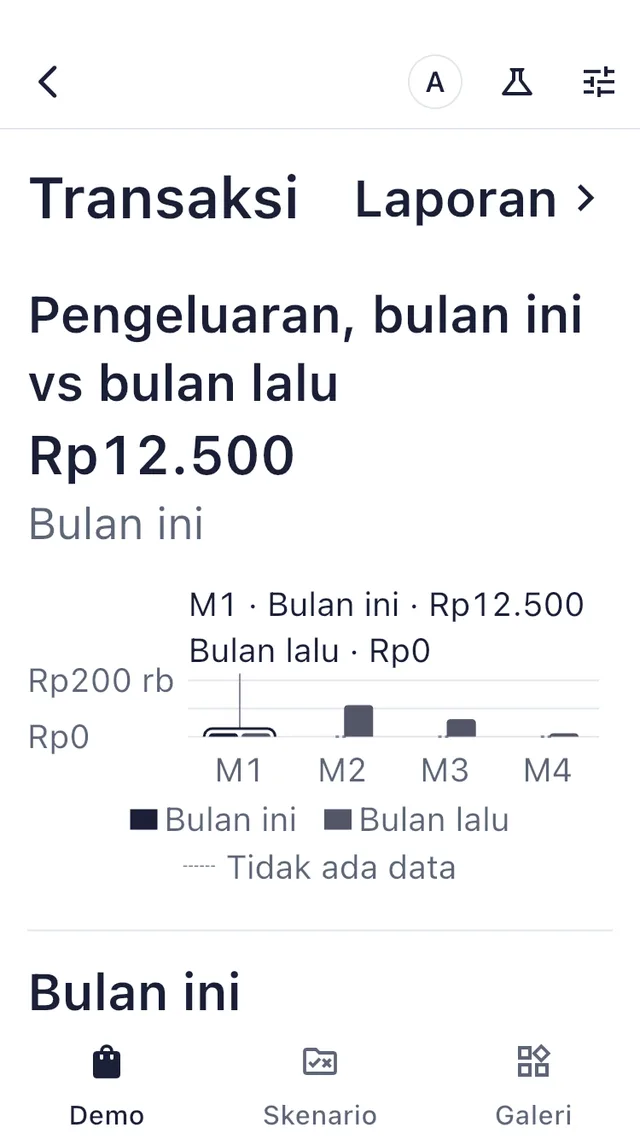
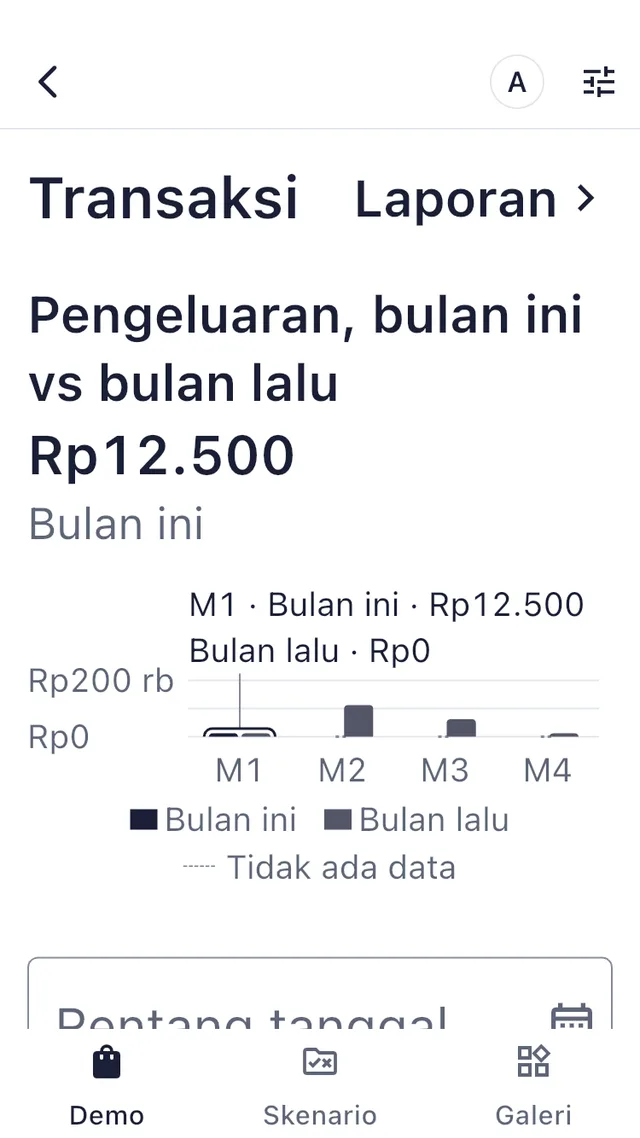
docs(screens): P7a captures, pinned KYC steps on iPhone 16 Pro and SE

diff --git a/docs/decisions.md b/docs/decisions.md
@@ -575,5 +575,5 @@ Problems found in the review are recorded as issues before any work: #45–#50, 
 
 - **D62 implementation note: the KYC form steps pin their submit (#64).** The orchestrator chose P6's option (a), an external submit, over a footer slot the forms fill: it is additive, the host owns it, and each form keeps its own validation. `IdentityFormController` is a `ChangeNotifier` with `Future<bool> submit()`, `busy` and `canSubmit`. `submit()` goes through the form's one submit path, the same one its inline button and the last field's done action use: it shows the errors, focuses the first invalid field and resolves `false`, or awaits `onSubmit` and resolves `true`; a second call while one runs resolves `false`. The form attaches in `initState` and detaches in `dispose`, and notifies after the frame, so a host listener never rebuilds mid-build. `IdentityForm(controller:)` drops the inline button and the gap before it. `VerificationReview` can't use `onSubmit: null` as the opt-out, because null already means "disabled", so it takes `inlineSubmit: false`, and `VerificationReview.submitButton` builds the one button for both places (the same `isReady` rule and "Submitting…" label); the missing-documents banner stays in the content. `PaymentOnboardingView.primaryAction` / `secondaryAction` (quiet, asserted in `build`) go to `ViewFrame`'s footer, so a bounded view pins them through `ViewFooter` / `PinnedFooter` exactly like P5's views and P6's `ActionFrame`; the footer is hidden while `pending` or `completed`, when the step isn't shown. Without a controller or `primaryAction` everything stays inline. The documents step has no kit form, so the example pins its own "Continue to review" (key `to-review`).
 - **Header: the title never breaks inside a word (P5 regression).** P5 capped the title-row link at half the row, so at 200% on a 375 pt phone "Transactions" broke as "Transacti / ons". `ViewHeader` now measures the title on one line (a `TextPainter` with the ambient default style merged with `type.title` at the real text scale, so it matches the rendered `Text`) plus the 16 dp gap and the link's label and › glyph, against the row minus any leading icon or tile. When that doesn't fit, the link takes its own line under the header text, 8 dp below, with its text and 48 dp target on the start edge (`HeaderLink.alignment`). A ⋮ menu stays on the title row: 48 dp can't squeeze a word out. The stacked link sits under the description too, so the title and its description stay together.
-- **History at SE 200% (#58-3): not met, decision needed.** Measured budget in English on a 375 × 667 pt screen at 200%, top to the first row: status bar and app bar 76, header with the stacked link about 138, gap 24, the two-line chart title 65, the headline block 97, gap 16, search with its gap 88, filter tabs 48, so the first row starts near 552 of the 603 pt above the tab bar and needs about 100. That holds with the plot, the month's figures and the date range all at zero height, so no `ChartModule` rule alone can put a row on the first screen; a large-text chart fold was left out, since it would change every chart at 200% without changing the result. The example moves the month's figures after the list, which puts a row on the first screen at 100% on the iPhone 16 Pro. Options for the owner, with what each saves: fold the plot (about 130–196), move the date range into the list's filter sheet or a chip (about 96), fold search at large text (about 88), a one-line English chart title (about 32), or accept a first row that peeks.
+- **History at SE 200% (#58-3): not met, decision needed.** Measured budget in English on a 375 × 667 pt screen at 200%, top to the first row: status bar and app bar 76, header with the stacked link about 138, gap 24, the two-line chart title 65, the headline block 97, gap 16, search with its gap 88, filter tabs 48, so the first row starts near 552 of the 603 pt above the tab bar and needs about 100. That holds with the plot, the month's figures and the date range all at zero height, so no `ChartModule` rule alone can put a row on the first screen; a large-text chart fold was left out, since it would change every chart at 200% without changing the result. The example moves the month's figures after the list, which puts the first row's title, amount and date on the first screen at 100% on the iPhone 16 Pro (its status badge still sits under the tab bar). Options for the owner, with what each saves: fold the plot (about 130–196), move the date range into the list's filter sheet or a chip (about 96), fold search at large text (about 88), a one-line English chart title (about 32), or accept a first row that peeks.
 - **Example app bar.** "Demo tools" lives in the settings sheet (the tune action), as an entry shown on the Demo tab only, so the bar keeps at most two trailing actions (account and settings) and "Konfirmasi pembayaran" fits at 100%. The keys `demo-tools`, `host-stats` and `host-background` are unchanged.

diff --git a/website/src/content/docs/reference/changelog.md b/website/src/content/docs/reference/changelog.md
@@ -15,7 +15,7 @@ Copied verbatim from `CHANGELOG.md`. Version 0.1.0 is unreleased and not publish
   ```
 
 - **Header title never breaks inside a word (D59a, P5 regression).** When a header's title on one line and its "Label ›" link don't fit side by side, the link takes its own line under the header text, start-aligned with its 48 dp target, instead of taking half the row and breaking the title mid-word ("Transacti / ons" at 200% on a small phone). A ⋮ menu stays on the title row. No API change.
-- **History: list before the month's figures (#58).** The example's history page shows the month's payments, refunds and most-used method after the transaction list, so a transaction row is on the first screen at 100%. At 200% on an iPhone SE the first screen still ends before the first row (see #58).
+- **History: list before the month's figures (#58).** The example's history page shows the month's payments, refunds and most-used method after the transaction list, so at 100% on an iPhone 16 Pro the first row's title, amount and date are on the first screen. At 200% on an iPhone SE the first screen still ends before the first row (see #58).
 - **Example app bar.** "Demo tools" moved from its own app-bar icon into the settings sheet, so the bar keeps at most two trailing actions and step titles such as "Konfirmasi pembayaran" fit at 100%.
 
 ## UI review P7b (2026-11-01)

diff --git a/CHANGELOG.md b/CHANGELOG.md
@@ -8,7 +8,7 @@
   ```
 
 - **Header title never breaks inside a word (D59a, P5 regression).** When a header's title on one line and its "Label ›" link don't fit side by side, the link takes its own line under the header text, start-aligned with its 48 dp target, instead of taking half the row and breaking the title mid-word ("Transacti / ons" at 200% on a small phone). A ⋮ menu stays on the title row. No API change.
-- **History: list before the month's figures (#58).** The example's history page shows the month's payments, refunds and most-used method after the transaction list, so a transaction row is on the first screen at 100%. At 200% on an iPhone SE the first screen still ends before the first row (see #58).
+- **History: list before the month's figures (#58).** The example's history page shows the month's payments, refunds and most-used method after the transaction list, so at 100% on an iPhone 16 Pro the first row's title, amount and date are on the first screen. At 200% on an iPhone SE the first screen still ends before the first row (see #58).
 - **Example app bar.** "Demo tools" moved from its own app-bar icon into the settings sheet, so the bar keeps at most two trailing actions and step titles such as "Konfirmasi pembayaran" fit at 100%.
 
 ## UI review P7b (2026-11-01)
